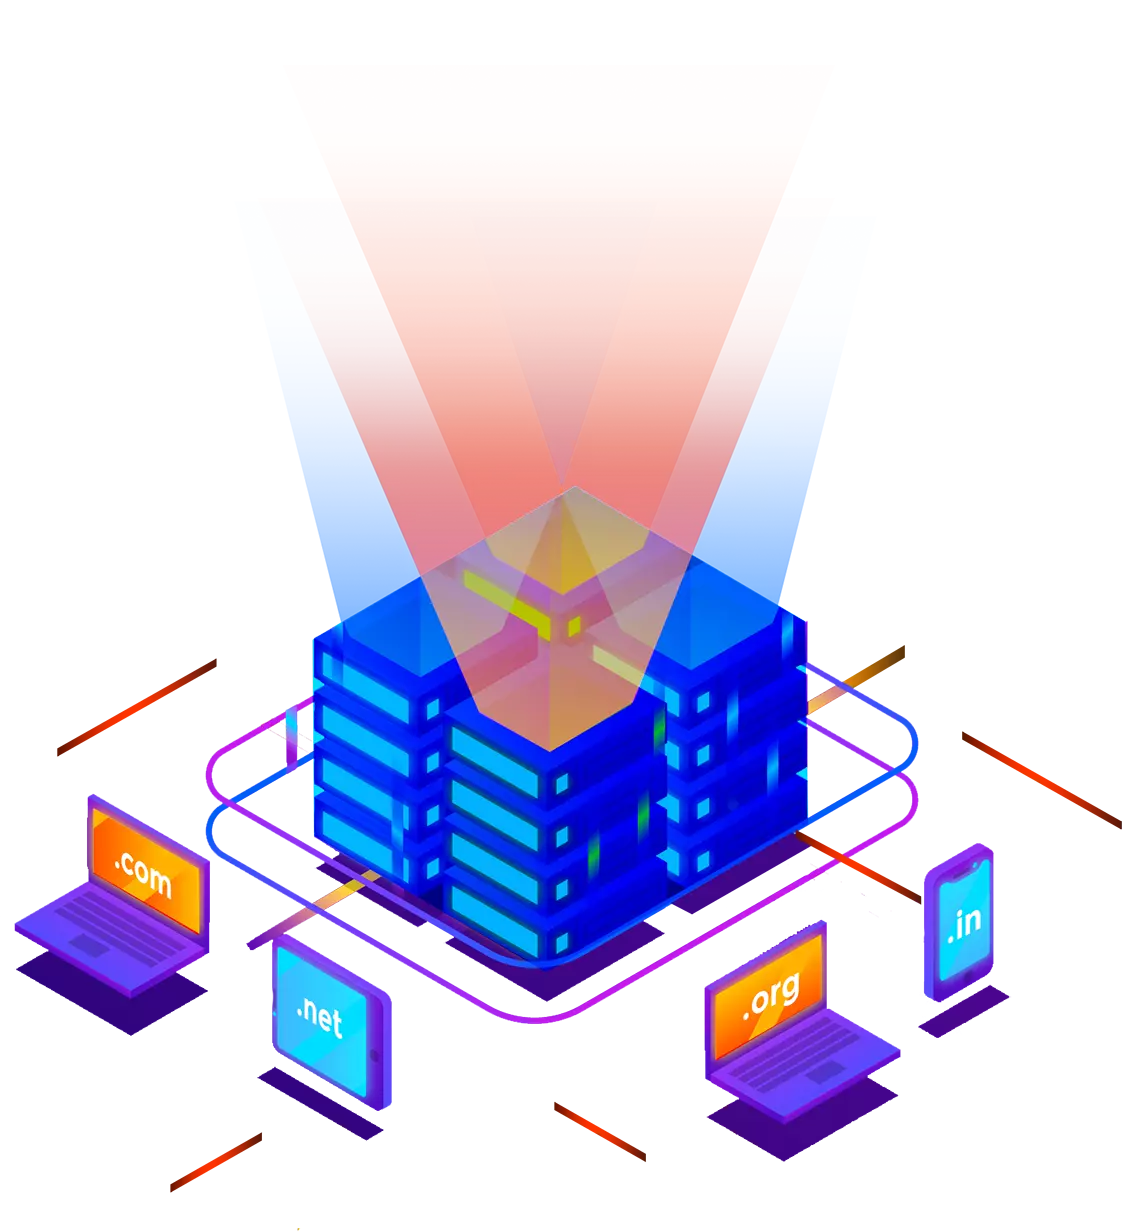
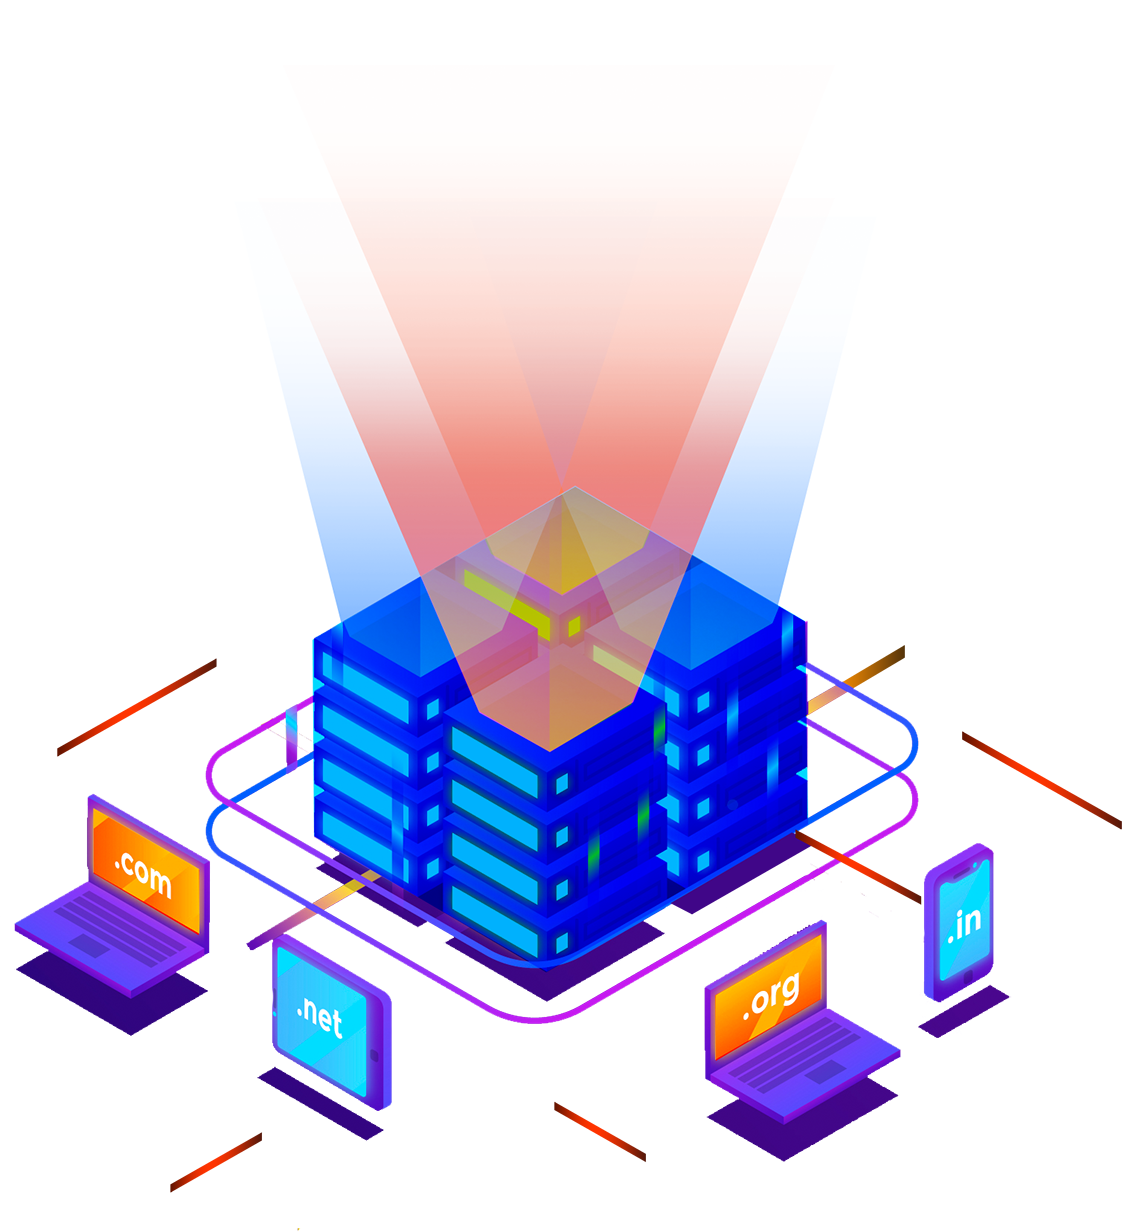
hero build changes

diff --git a/index.html b/index.html
@@ -14,68 +14,24 @@
     <link rel="stylesheet" href="/CSS/Styles.css" />
   </head>
   <body>
-    <section class="block container block-plans">
-      <div class="grid grid--1x3">
-        <div class="plan">
-          <div class="card card--secondary">
-            <header class="card__header">
-              <h3 class="plan__name">Entry</h3>
-              <span class="plan__price">$14</span>
-              <span class="plan__billing-cycle">/month</span>
-              <span class="badge badge--secondary badge--small">10% OFF</span>
-              <span class="plan__description">Easy start on the cloud</span>
-            </header>
-            <div class="card__body">
-              <ul class="list list--tick">
-                <li class="list__item">Unlimited Websites</li>
-                <li class="list__item">Unlimited Bandwidth</li>
-                <li class="list__item">100 GB SSD Sotrage</li>
-                <li class="list__item">3 GB RAM</li>
-              </ul>
-              <button class="btn btn--outline btn--block">Buy Now</button>
-            </div>
-          </div>
-        </div>
-        <div class="plan plan--popular">
-          <div class="card card--primary">
-            <header class="card__header">
-              <h3 class="plan__name">Entry</h3>
-              <span class="plan__price">$14</span>
-              <span class="plan__billing-cycle">/month</span>
-              <span class="badge badge--primary badge--small">10% OFF</span>
-              <span class="plan__description">Easy start on the cloud</span>
-            </header>
-            <div class="card__body">
-              <ul class="list list--tick">
-                <li class="list__item">Unlimited Websites</li>
-                <li class="list__item">Unlimited Bandwidth</li>
-                <li class="list__item">100 GB SSD Sotrage</li>
-                <li class="list__item">3 GB RAM</li>
-              </ul>
-              <button class="btn btn--outline btn--block">Buy Now</button>
-            </div>
-          </div>
-        </div>
-        <div class="plan">
-          <div class="card card--secondary">
-            <header class="card__header">
-              <h3 class="plan__name">Entry</h3>
-              <span class="plan__price">$14</span>
-              <span class="plan__billing-cycle">/month</span>
-              <span class="badge badge--secondary badge--small">10% OFF</span>
-              <span class="plan__description">Easy start on the cloud</span>
-            </header>
-            <div class="card__body">
-              <ul class="list list--tick">
-                <li class="list__item">Unlimited Websites</li>
-                <li class="list__item">Unlimited Bandwidth</li>
-                <li class="list__item">100 GB SSD Sotrage</li>
-                <li class="list__item">3 GB RAM</li>
-              </ul>
-              <button class="btn btn--outline btn--block">Buy Now</button>
-            </div>
-          </div>
-        </div>
+    <section class="block block--dark block--skewed-left hero">
+      <div class="container grid grid--1x2">
+        <header class="block__header hero__content">
+          <h1 class="block__heading">Cloud Hosting for Pros</h1>
+          <p class="hero__tagline">
+            Deploy your Websites in less than 60 Seconds
+          </p>
+          <a href="" class="btn btn--accent btn--streched">Get Started</a>
+        </header>
+        <picture>
+          <source
+            type="image/webp"
+            srcset="/images/banner.webp 1x, /images/banner@2x.webp 2x" />
+          <source
+            type="image/png"
+            srcset="/images/banner.png 1x, /images/banner@2x.png 2x" />
+          <img class="hero__image" src="/images/banner.png" alt=""
+        /></picture>
       </div>
     </section>
     <script src="/js/main.js"></script>

diff --git a/components/hero.html b/components/hero.html
@@ -6,10 +6,12 @@
       <a href="" class="btn btn--accent btn--streched">Get Started</a>
     </header>
     <picture>
-      <source type="image/webp" srcset="/images/banner@2x.webp" />
+      <source
+        type="image/webp"
+        srcset="/images/banner.webp 1x, /images/banner@2x.webp 2x" />
       <source
         type="image/png"
-        srcset="/images/banner.png 1x, /images/banner@2x.png" />
+        srcset="/images/banner.png 1x, /images/banner@2x.png 2x" />
       <img class="hero__image" src="/images/banner.png" alt=""
     /></picture>
   </div>

diff --git a/CSS/Styles.css b/CSS/Styles.css
@@ -746,6 +746,7 @@ a {
     width: 100%;
 }
 
+
 .hero {
     clip-path: polygon(0% 0%, 100% 0%, 100% 90%, 0% 100%);
 }
